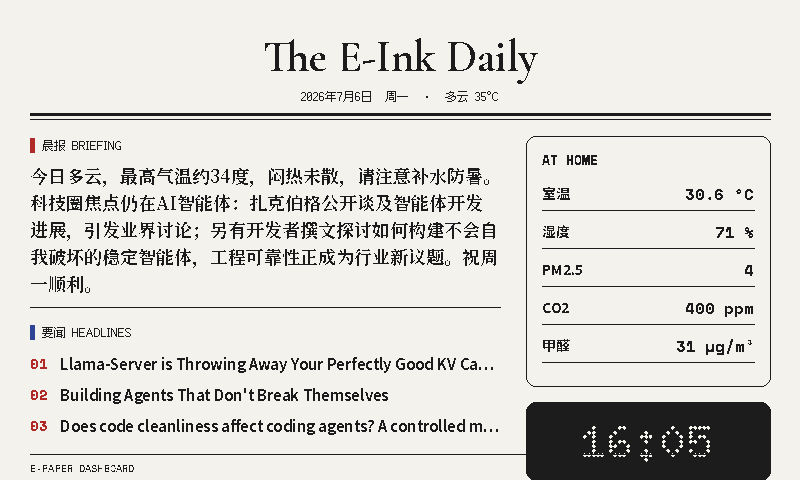
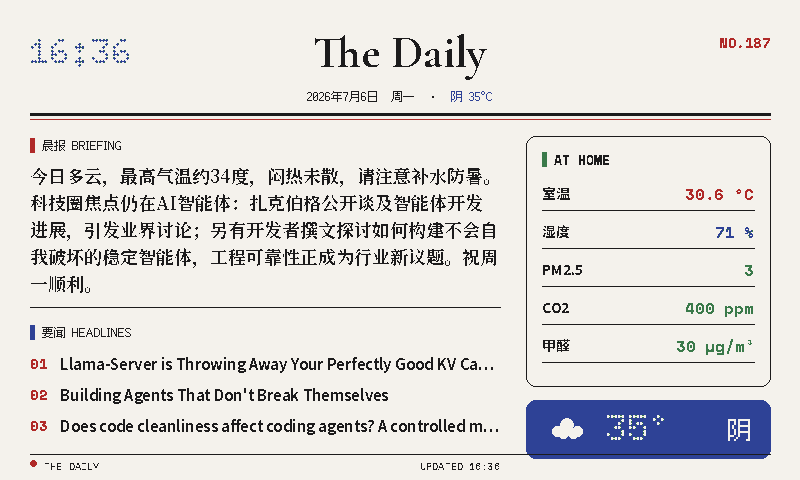
Journal redesign: masthead row with clock, more colour
Title drops 'E-Ink' → 'The Daily'. Doto clock moves to the top-left corner,
red issue number (day of year) top-right, dateline weather in blue, double
rule black+red. Sidebar values are health-coloured (temp/PM2.5/CO2/HCHO
thresholds), and the bottom clock tile becomes a blue weather card. Footer
gets a red dot accent. All colour collapses to black on the B/W panel.

diff --git a/renderer/styles/journal.py b/renderer/styles/journal.py
@@ -1,12 +1,13 @@
 """Style: journal — a text-first "morning paper" front page.
 
-Serif masthead + dateline, then a left column carrying an AI-written 晨报
-briefing (weather + today's headlines digested into ~100 Chinese characters,
-cached daily) above the headline list, and a right sidebar with home sensor
-data. Entirely legible on 1-bit panels; the colour panel adds red/blue accents.
+Masthead row: Doto clock top-left, serif "The Daily" centre, red issue number
+top-right, dateline with the weather in blue, double rule (black + red).
+Left column: AI-written 晨报 briefing (weather + headlines digested into ~100
+Chinese characters, cached daily) above the headline list. Right sidebar:
+home sensor data with health-coloured values, and a weather card.
 
-Without an AI backend the briefing block is dropped and headlines move up —
-the page still works as a plain news front.
+Colour degrades gracefully on the B/W panel (all inks collapse to black).
+Without an AI backend the briefing block is dropped and headlines move up.
 """
 
 from __future__ import annotations
@@ -31,19 +32,32 @@ def _brief(ctx) -> str:
     return ai.try_cached_text("journal-brief", prompt, "")
 
 
+def _level_color(v, good, bad):
+    """green below `good`, yellow up to `bad`, red beyond; black if unknown."""
+    if v is None:
+        return "black"
+    return "green" if v < good else ("yellow" if v <= bad else "red")
+
+
 def render(panel, ctx):
     c = Canvas(panel)
     now, states, news = ctx.now, ctx.states, ctx.news
-
-    # ── masthead ─────────────────────────────────────────────────────────────
-    c.text(panel.W / 2, 30, "The E-Ink Daily", c.garamond(44, 640), anchor="ma")
     w = ds.weather_summary(states)
-    dateline = (f"{now.year}年{now.month}月{now.day}日  "
-                f"{config.CN_WD[now.isoweekday() - 1]}  ·  "
-                f"{w['cn']} {ds.num(w['temp'], '%.0f')}°C")
-    c.ptext(panel.W / 2, 88, dateline, 12, anchor="ma")
+
+    # ── masthead row: clock / title / issue no. ──────────────────────────────
+    c.text(M, 30, now.strftime("%H:%M"), c.doto(34), fill="blue")
+    c.text(panel.W - M, 32, f"NO.{now.timetuple().tm_yday:03d}", c.mono(14, bold=True),
+           fill="red", anchor="ra")
+    c.text(panel.W / 2, 24, "The Daily", c.garamond(46, 640), anchor="ma")
+    pf = c.pixel(12)
+    p1 = (f"{now.year}年{now.month}月{now.day}日  "
+          f"{config.CN_WD[now.isoweekday() - 1]}  ·  ")
+    p2 = f"{w['cn']} {ds.num(w['temp'], '%.0f')}°C"
+    x0 = (panel.W - c.tw(p1 + p2, pf)) / 2
+    c.ptext(x0, 88, p1, 12)
+    c.ptext(x0 + c.tw(p1, pf), 88, p2, 12, fill="blue")
     c.line(M, 114, panel.W - M, 114, width=3)
-    c.line(M, 119, panel.W - M, 119, width=1)
+    c.line(M, 119, panel.W - M, 119, fill="red", width=1)
 
     col_x, col_w = M, 470                     # main column
     sb_x = col_x + col_w + 26                 # sidebar
@@ -78,34 +92,46 @@ def render(panel, ctx):
         c.text(col_x + 30, y - 1, c.ellipsize(hf, it.get("title") or "", col_w - 30), hf)
         y += 31
 
-    # ── sidebar: home data ───────────────────────────────────────────────────
+    # ── sidebar: home data, health-coloured ──────────────────────────────────
     sy = 136
     c.tile(sb_x, sy, sb_w, 250, r=10)
-    c.text(sb_x + 16, sy + 14, "AT HOME", c.mono(13, bold=True))
+    c.rect(sb_x + 16, sy + 16, 4, 14, fill="green")
+    c.text(sb_x + 28, sy + 14, "AT HOME", c.mono(13, bold=True))
+    tv = ds.f(ds.state(states, "temp"))
+    hv = ds.f(ds.state(states, "humidity"))
+    pm = ds.f(ds.state(states, "pm25"))
+    co = ds.f(ds.state(states, "co2"))
     hcho = ds.f(ds.state(states, "hcho"))
+    hug = hcho * 1000 if hcho is not None else None
     rows = [
-        ("室温", ds.num(ds.state(states, "temp")) + " °C"),
-        ("湿度", ds.num(ds.state(states, "humidity"), "%.0f") + " %"),
-        ("PM2.5", ds.num(ds.state(states, "pm25"), "%.0f")),
-        ("CO2", ds.num(ds.state(states, "co2"), "%.0f") + " ppm"),
-        ("甲醛", (ds.num(hcho * 1000 if hcho is not None else None, "%.0f")) + " µg/m³"),
+        ("室温", ds.num(tv) + " °C",
+         "red" if (tv is not None and tv >= 28) else "black"),
+        ("湿度", ds.num(hv, "%.0f") + " %", "blue"),
+        ("PM2.5", ds.num(pm, "%.0f"), _level_color(pm, 35, 75)),
+        ("CO2", ds.num(co, "%.0f") + " ppm", _level_color(co, 800, 1200)),
+        ("甲醛", ds.num(hug, "%.0f") + " µg/m³", _level_color(hug, 50, 80)),
     ]
     ry = sy + 46
     vf, kf = c.mono(16, bold=True), c.sans(14, 600)
-    for k, v in rows:
+    for k, v, col in rows:
         c.text(sb_x + 16, ry, k, kf)
-        c.text(sb_x + sb_w - 16, ry, v, vf, anchor="ra")
+        c.text(sb_x + sb_w - 16, ry, v, vf, fill=col, anchor="ra")
         ry += 38
         if ry < sy + 240:
             c.line(sb_x + 16, ry - 10, sb_x + sb_w - 16, ry - 10, width=1)
 
-    # sidebar footer: clock stamp
-    c.tile(sb_x, sy + 266, sb_w, 78, r=10, fill="black", outline="black")
-    tstr = now.strftime("%H:%M")
-    c.text(sb_x + sb_w / 2, sy + 266 + 39, tstr, c.doto(44), fill="white", anchor="mm")
+    # sidebar footer: weather card (blue, white ink)
+    wy = sy + 264
+    c.tile(sb_x, wy, sb_w, panel.H - wy - 22, r=10, fill="blue", outline="blue")
+    cyc = wy + (panel.H - wy - 22) / 2
+    c.dotsicon(sb_x + 40, cyc, w["icon"], R=13, col="white")
+    c.text(sb_x + 80, cyc - 2, f"{ds.num(w['temp'], '%.0f')}°", c.doto(36),
+           fill="white", anchor="lm")
+    c.ptext(sb_x + sb_w - 18, cyc, w["cn"], 24, fill="white", anchor="rm")
 
     # ── page footer ──────────────────────────────────────────────────────────
     c.line(M, panel.H - 26, panel.W - M, panel.H - 26, width=1)
-    c.text(M, panel.H - 20, "E-PAPER DASHBOARD", c.mono(10))
-    c.text(panel.W - M, panel.H - 20, now.strftime("UPDATED %H:%M"), c.mono(10), anchor="ra")
+    c.dot(M + 3, panel.H - 17, 3, "red")
+    c.text(M + 14, panel.H - 22, "THE DAILY", c.mono(10))
+    c.text(col_x + col_w, panel.H - 22, now.strftime("UPDATED %H:%M"), c.mono(10), anchor="ra")
     return c.finish()